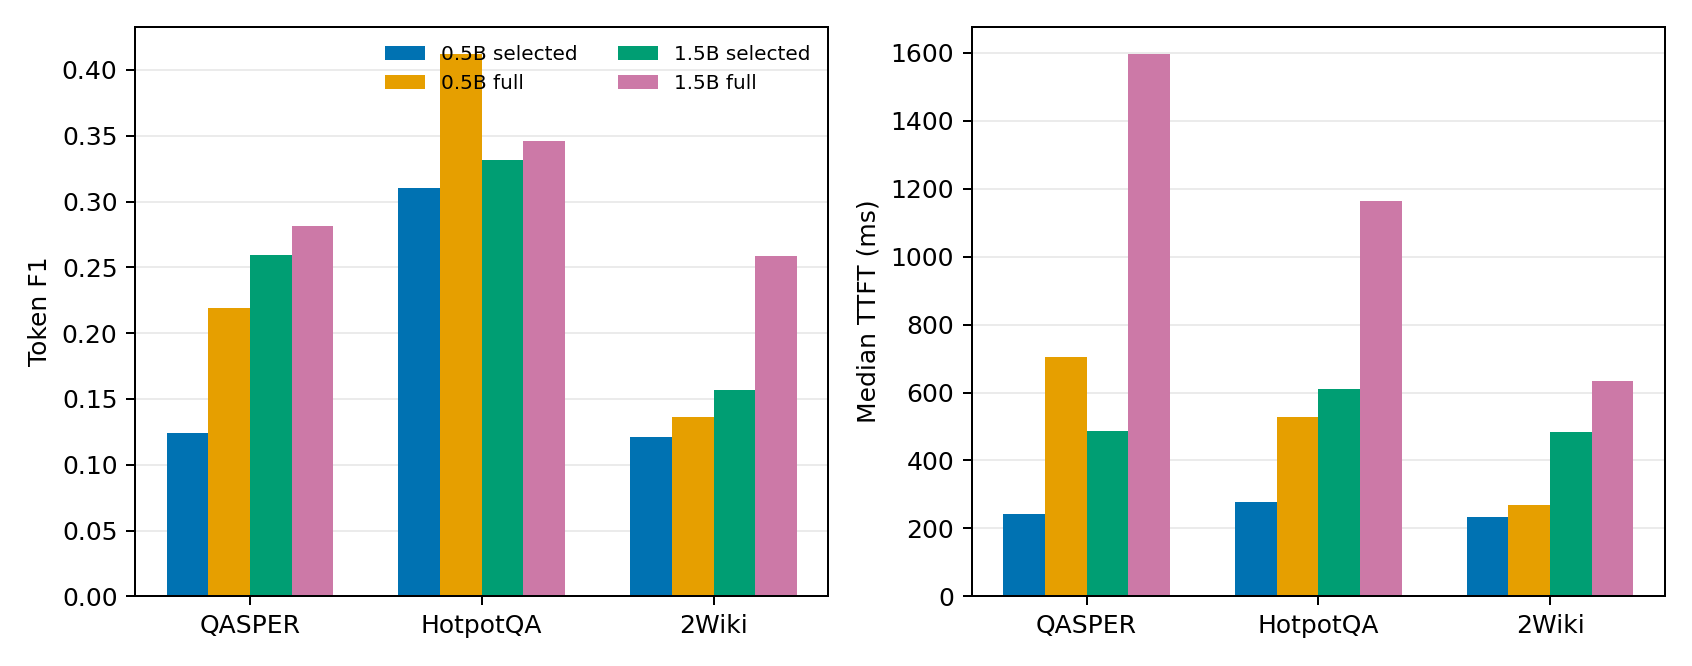
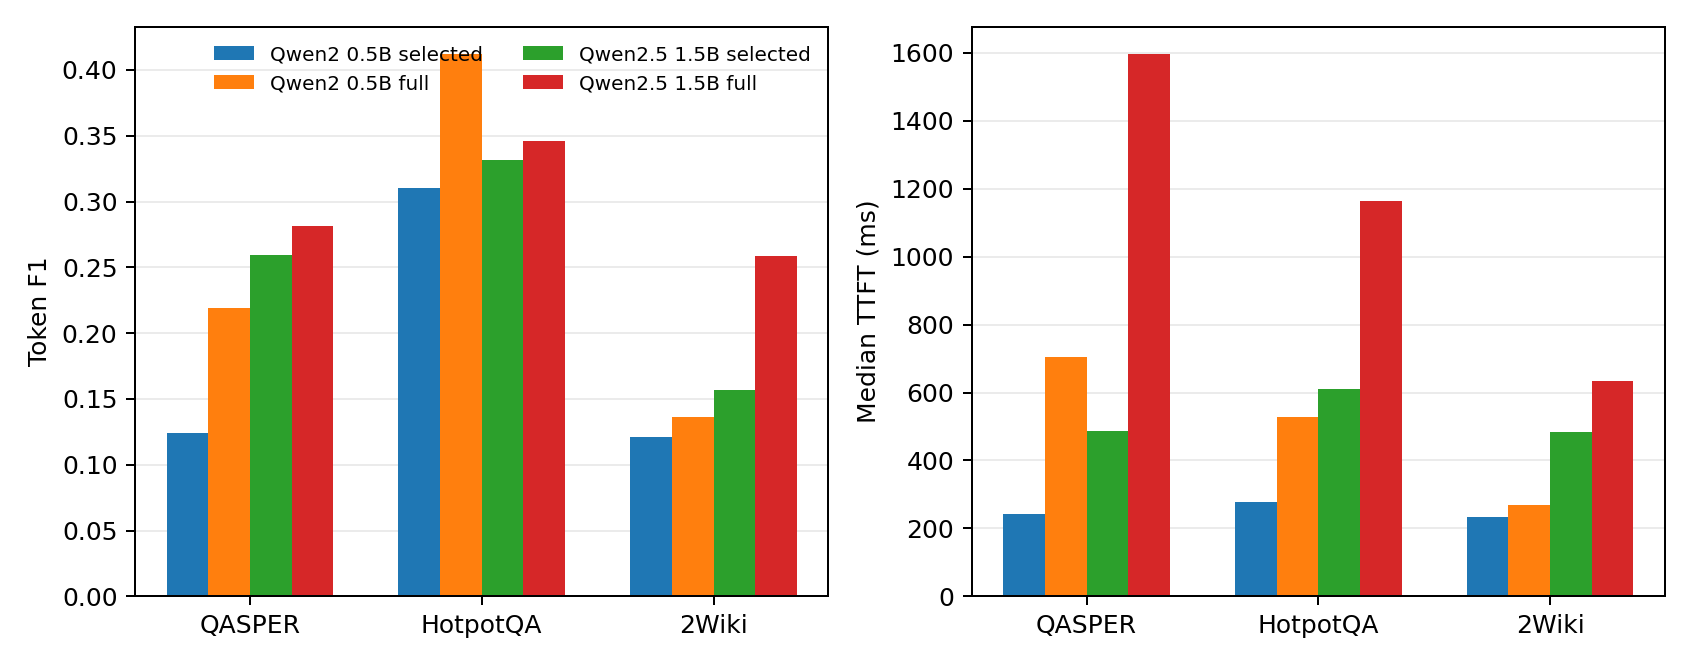
exp: generalize OpenVINO cross-family summaries

diff --git a/experiments/paper6_3_openvino/summarize_cross_model.py b/experiments/paper6_3_openvino/summarize_cross_model.py
@@ -15,6 +15,20 @@ _DATASET_NAMES = {
 }
 
 
+def _model_label(model_id: str) -> str:
+    """Return a compact, stable label without relying on input ordering."""
+
+    name = model_id.replace("\\", "/").rstrip("/").rsplit("/", 1)[-1]
+    lowered = name.lower()
+    if "tinyllama" in lowered:
+        return "TinyLlama 1.1B"
+    if "qwen2.5-1.5b" in lowered:
+        return "Qwen2.5 1.5B"
+    if "qwen2-0.5b" in lowered:
+        return "Qwen2 0.5B"
+    return name.replace("-Instruct", "").replace("-int4-ov", "")
+
+
 def _p50(value: Any) -> float:
     return float(value["p50"] if isinstance(value, Mapping) else value)
 
@@ -80,8 +94,8 @@ def render_table(summary: Mapping[str, Any]) -> str:
         r"Model & Dataset & Sel. F1 & Full F1 & Sel. TTFT & Full TTFT & TTFT ratio \\",
         r"\midrule",
     ]
-    for model_index, model_id in enumerate(summary["models"]):
-        label = "0.5B" if model_index == 0 else "1.5B"
+    for model_id in summary["models"]:
+        label = _model_label(str(model_id))
         for row in summary["rows"]:
             if row["model_id"] != model_id:
                 continue
@@ -106,27 +120,28 @@ def render_plot(summary: Mapping[str, Any], path: Path) -> None:
         for row in summary["rows"]
     }
     x = np.arange(len(datasets), dtype=float)
-    width = 0.18
-    colors = ("#0072B2", "#E69F00", "#009E73", "#CC79A7")
+    bar_count = max(1, len(models) * 2)
+    width = min(0.18, 0.82 / bar_count)
+    colors = plt.get_cmap("tab10").colors
     fig, axes = plt.subplots(1, 2, figsize=(9.4, 3.7))
     for model_index, model in enumerate(models):
-        model_label = "0.5B" if model_index == 0 else "1.5B"
+        model_label = _model_label(str(model))
         for condition_index, condition in enumerate(("selected", "full")):
             offset_index = model_index * 2 + condition_index
-            offset = (offset_index - 1.5) * width
+            offset = (offset_index - (bar_count - 1) / 2) * width
             rows = [indexed[(model, dataset)] for dataset in datasets]
             axes[0].bar(
                 x + offset,
                 [row[f"{condition}_f1"] for row in rows],
                 width,
-                color=colors[offset_index],
+                color=colors[offset_index % len(colors)],
                 label=f"{model_label} {condition}",
             )
             axes[1].bar(
                 x + offset,
                 [row[f"{condition}_ttft_p50_ms"] for row in rows],
                 width,
-                color=colors[offset_index],
+                color=colors[offset_index % len(colors)],
             )
     axes[0].set_ylabel("Token F1")
     axes[1].set_ylabel("Median TTFT (ms)")

diff --git a/tests/test_openvino_cross_model.py b/tests/test_openvino_cross_model.py
@@ -37,13 +37,19 @@ def _payload(model: str, selected_f1: float, full_f1: float) -> dict:
 
 def test_cross_model_summary_pairs_quality_and_ttft() -> None:
     result = summarize(
-        [_payload("small", 0.2, 0.3), _payload("large", 0.4, 0.45)]
+        [
+            _payload("Qwen2-0.5B-Instruct-int4-ov", 0.2, 0.3),
+            _payload("Qwen2.5-1.5B-Instruct-int4-ov", 0.4, 0.45),
+            _payload("TinyLlama-1.1B-Chat-v1.0-int4-ov", 0.35, 0.4),
+        ]
     )
 
-    assert len(result["rows"]) == 6
+    assert len(result["rows"]) == 9
     first = result["rows"][0]
     assert first["selected_minus_full_f1"] == pytest.approx(-0.1)
     assert first["full_over_selected_ttft"] == 2.5
     assert first["selected_ttft_p95_ms"] == 200.0
     assert result["engine_version"] == "2026.3.1.0"
-    assert "1.5B" in render_table(result)
+    table = render_table(result)
+    assert "Qwen2.5 1.5B" in table
+    assert "TinyLlama 1.1B" in table

diff --git a/docs/papers/shared/results/paper6_3_openvino/generated_cross_model_table.tex b/docs/papers/shared/results/paper6_3_openvino/generated_cross_model_table.tex
@@ -2,11 +2,11 @@
 \toprule
 Model & Dataset & Sel. F1 & Full F1 & Sel. TTFT & Full TTFT & TTFT ratio \\
 \midrule
-0.5B & 2Wiki & 0.121 & 0.137 & 235 & 268 & 1.14$\times$ \\
-0.5B & HotpotQA & 0.310 & 0.412 & 278 & 527 & 1.90$\times$ \\
-0.5B & QASPER & 0.124 & 0.219 & 241 & 705 & 2.92$\times$ \\
-1.5B & 2Wiki & 0.157 & 0.259 & 483 & 635 & 1.31$\times$ \\
-1.5B & HotpotQA & 0.332 & 0.346 & 609 & 1164 & 1.91$\times$ \\
-1.5B & QASPER & 0.260 & 0.282 & 486 & 1597 & 3.29$\times$ \\
+Qwen2 0.5B & 2Wiki & 0.121 & 0.137 & 235 & 268 & 1.14$\times$ \\
+Qwen2 0.5B & HotpotQA & 0.310 & 0.412 & 278 & 527 & 1.90$\times$ \\
+Qwen2 0.5B & QASPER & 0.124 & 0.219 & 241 & 705 & 2.92$\times$ \\
+Qwen2.5 1.5B & 2Wiki & 0.157 & 0.259 & 483 & 635 & 1.31$\times$ \\
+Qwen2.5 1.5B & HotpotQA & 0.332 & 0.346 & 609 & 1164 & 1.91$\times$ \\
+Qwen2.5 1.5B & QASPER & 0.260 & 0.282 & 486 & 1597 & 3.29$\times$ \\
 \bottomrule
 \end{tabular}
